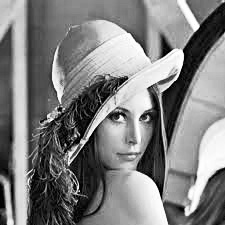
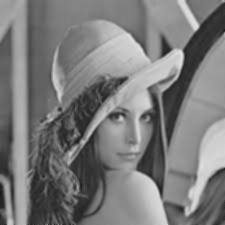
컬러 변환 기능 추가

diff --git a/ImageConverter/ImageConverter.cpp b/ImageConverter/ImageConverter.cpp
@@ -42,6 +42,30 @@ cv::Mat ApplyAverageFilter(const cv::Mat& input)
     return output;
 }
 
+cv::Mat ApplyAverageFilterWithColor(const cv::Mat& input)
+{
+	CV_Assert(input.type() == CV_8UC3);
+	cv::Mat output = input.clone();
+
+	for (int y = 1; y < input.rows - 1; y++)
+	{
+		for (int x = 1; x < input.cols - 1; x++)
+		{
+			cv::Vec3b sum = cv::Vec3b(0, 0, 0);
+			for (int ky = -1; ky <= 1; ky++)
+			{
+				for (int kx = -1; kx <= 1; kx++)
+				{
+					cv::Vec3b pixel = input.at<cv::Vec3b>(y + ky, x + kx);
+					sum += pixel;
+				}
+			}
+			output.at<cv::Vec3b>(y, x) = sum / 9;
+		}
+	}
+	return output;
+}
+
 cv::Mat ApplySobelFilter(const cv::Mat& input, const std::vector<int>& kernel)
 {
     CV_Assert(input.type() == CV_8UC1 && kernel.size() == 9);
@@ -63,6 +87,30 @@ cv::Mat ApplySobelFilter(const cv::Mat& input, const std::vector<int>& kernel)
         }
     }
     return output;
+}
+
+cv::Mat ApplySobelFilterWithColor(const cv::Mat& input, const std::vector<int>& kernel)
+{
+	CV_Assert(input.type() == CV_8UC3 && kernel.size() == 9);
+	cv::Mat output = input.clone();
+
+	for (int y = 1; y < input.rows - 1; y++)
+	{
+		for (int x = 1; x < input.cols - 1; x++)
+		{
+			cv::Vec3b sum = cv::Vec3b(0, 0, 0);
+			for (int ky = -1; ky <= 1; ky++)
+			{
+				for (int kx = -1; kx <= 1; kx++)
+				{
+					cv::Vec3b pixel = input.at<cv::Vec3b>(y + ky, x + kx);
+					sum += pixel * kernel[(ky + 1) * 3 + (kx + 1)];
+				}
+			}
+			output.at<cv::Vec3b>(y, x) = sum;
+		}
+	}
+	return output;
 }
 
 void ProcessImage(const std::string& imagePath)
@@ -91,20 +139,36 @@ void ProcessImage(const std::string& imagePath)
         cv::imwrite(averagedImagePath, averagedImage);
 
         std::vector<int> sobelKernel1 = { -1, -1, -1, 0, 0, 0, 1, 1, 1 };
+        std::vector<int> sobelKernel2 = { -1, 0, 1, -1, 0, 1, -1, 0, 1 };
+        
         cv::Mat sobelImage1 = ApplySobelFilter(grayImage, sobelKernel1);
         std::string sobelImagePath1 = baseName + "_filter2" + extension;
         cv::imwrite(sobelImagePath1, sobelImage1);
 
-        std::vector<int> sobelKernel2 = { -1, 0, 1, -1, 0, 1, -1, 0, 1 };
         cv::Mat sobelImage2 = ApplySobelFilter(grayImage, sobelKernel2);
         std::string sobelImagePath2 = baseName + "_filter3" + extension;
         cv::imwrite(sobelImagePath2, sobelImage2);
+
+		cv::Mat averagedImageWithColor = ApplyAverageFilterWithColor(originalImage);
+		std::string averagedImagePathWithColor = baseName + "_filter1_color" + extension;
+		cv::imwrite(averagedImagePathWithColor, averagedImageWithColor);
+
+		cv::Mat sobelImage1WithColor = ApplySobelFilterWithColor(originalImage, sobelKernel1);
+		std::string sobelImagePath1WithColor = baseName + "_filter2_color" + extension;
+		cv::imwrite(sobelImagePath1WithColor, sobelImage1WithColor);
+
+		cv::Mat sobelImage2WithColor = ApplySobelFilterWithColor(originalImage, sobelKernel2);
+		std::string sobelImagePath2WithColor = baseName + "_filter3_color" + extension;
+		cv::imwrite(sobelImagePath2WithColor, sobelImage2WithColor);
 
         cv::imshow("Original Image", originalImage);
         cv::imshow("Grayscale Image (Filter 0)", grayImage);
         cv::imshow("Averaged Image (Filter 1)", averagedImage);
         cv::imshow("Sobel Filter 1 (Filter 2)", sobelImage1);
         cv::imshow("Sobel Filter 2 (Filter 3)", sobelImage2);
+		cv::imshow("Averages Image with Color (Filter 1)", averagedImageWithColor);
+		cv::imshow("Sobel Filter 1 With Color (Filter 2)", sobelImage1WithColor);
+		cv::imshow("Sobel Filter 2 With Color (Filter 3)", sobelImage2WithColor);
 
         cv::waitKey(0);
     }
